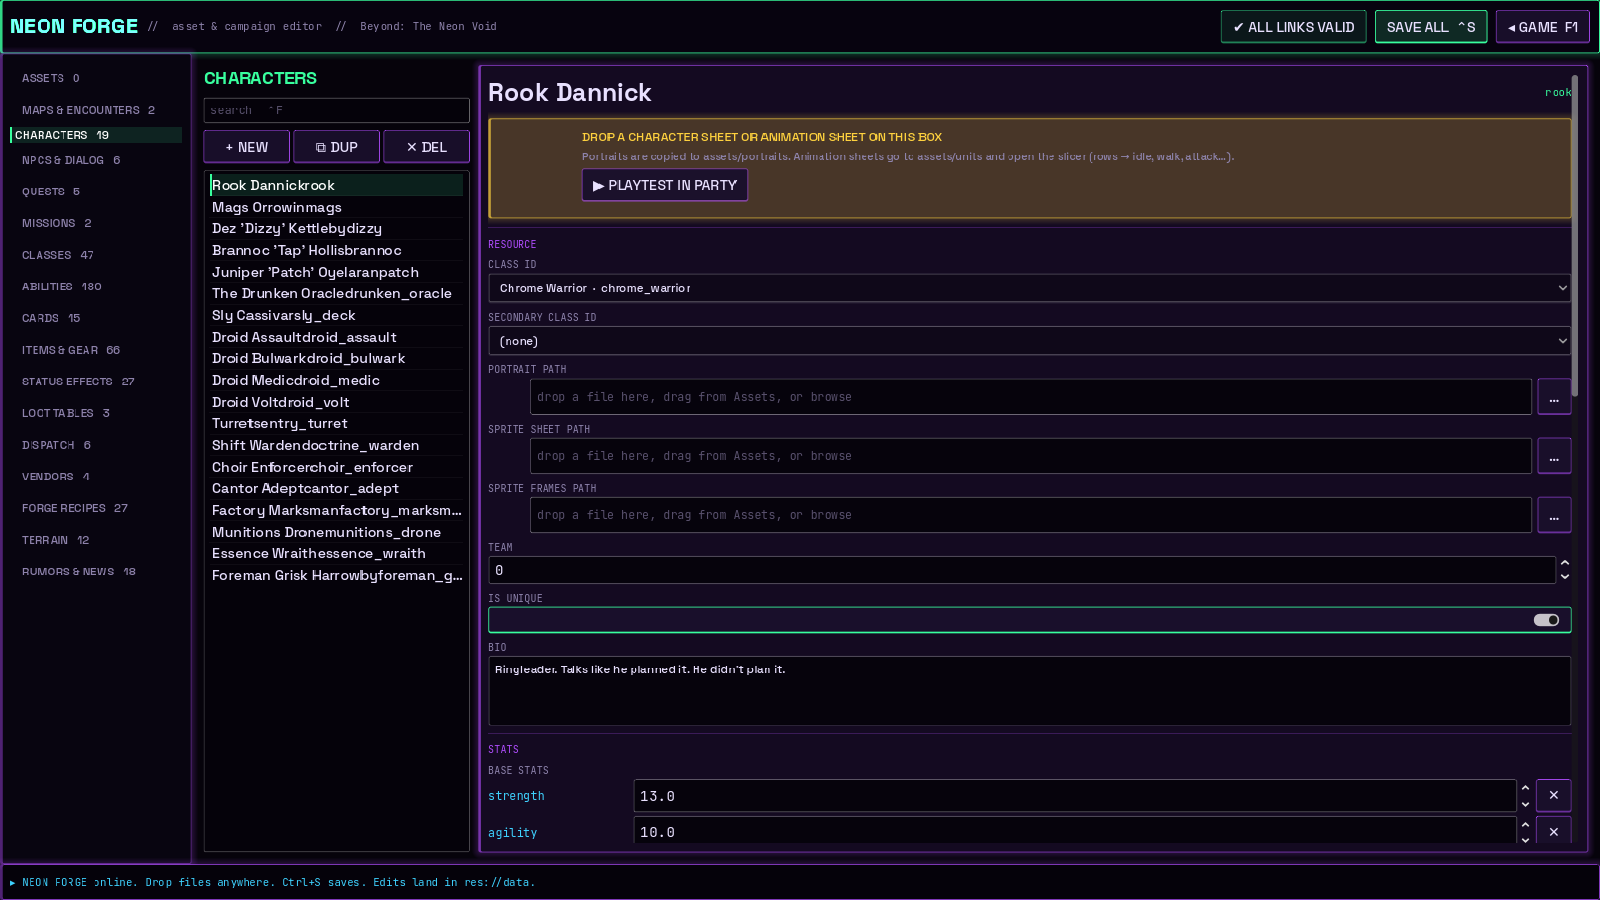
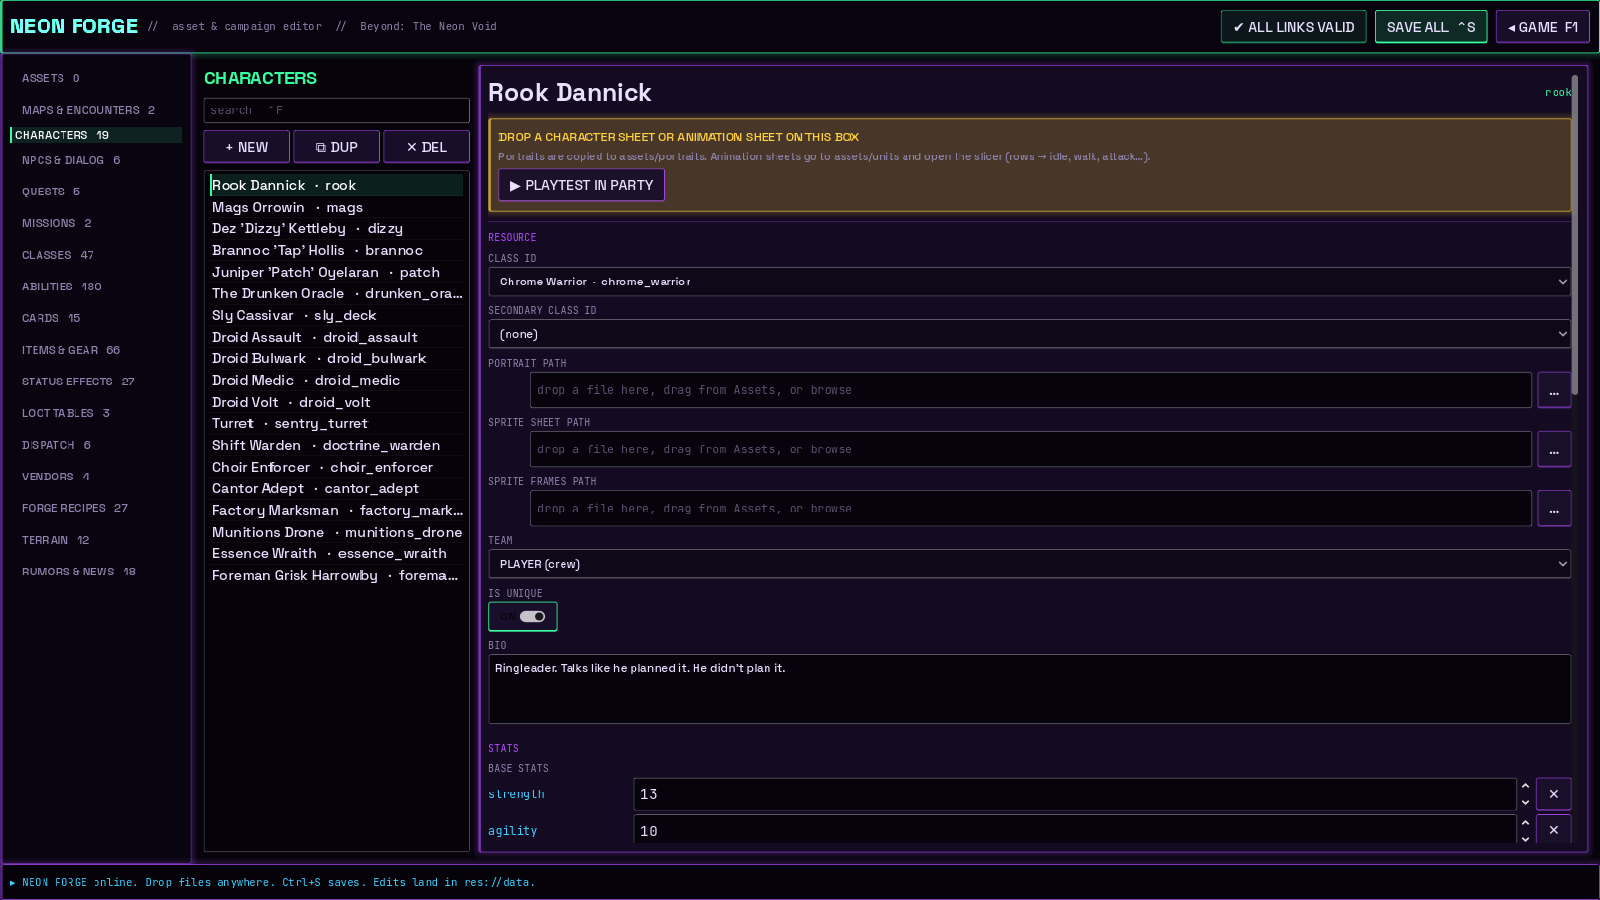
Docs, props in battle, editor polish
- README: start-here guide, controls, Neon Forge overview, layout, tests
- docs/design/BIG_IDEAS.md: ranked genre-pushing mechanics with status
- docs/MIGRATION.md: where each original script went and what was fixed
- Battle renders prop art; tiles/props load raw files before import
- Forge: cleaner list rows, integer stats, team dropdown, compact toggles

Claude-Session: https://claude.ai/code/session_01NwsUphtWbmXKeQUjjXApTa

diff --git a/docs/design/BIG_IDEAS.md b/docs/design/BIG_IDEAS.md
@@ -1,0 +1,141 @@
+# Big Ideas — pushing the genre
+
+The bar for this list: things tactics RPGs have rarely or never done, that grow out of *our* world (two truths, essence, a drunk found family, an unwinnable overseas war), and that our engine can actually support. Full research survey: `docs/research/GODOT_AND_TRPG_RESEARCH.md` (§B2 lists the genre gaps).
+
+Each idea shows its **status**:
+- **BUILT**: in the game now.
+- **HOOKED**: the engine has the hooks, and it needs content or one system.
+- **NEW**: needs a new system.
+
+---
+
+## Tier S: the ideas that define the game
+
+### 1. The Lying HUD (Doctrine Overlay) · NEW, cheap
+While a map's **Doctrine Relay** stands, the HUD reads state data:
+- hit % and damage previews skew up to ±25% in the Doctrine's favour
+- some enemies show up as "civilians"
+
+Ways to see through it:
+- Hackers can jack the relay.
+- A unit carrying the `Clear Eyes` chip sees true numbers.
+- Destroying the relay makes the HUD visibly *glitch back to the truth*.
+
+This is "everything has two truths" as a mechanic, not a plot point.
+
+- **Engine:** `DamageCalculator.forecast()` is already the single source the HUD reads. Adding an `InfoFilter` between them is a ~50-line change.
+- **Default:** telegraphs stay truthful. Lying is a per-map state you can *see* is active.
+- **Accessibility:** a toggle turns the lying off.
+
+### 2. Essence Ledger: humanity as combat currency · HOOKED
+- Every unit carries **Essence (0–100)**.
+- Big abilities can be **overcast** by spending Essence for +50%. Digimancer echoes are fuelled by it.
+- Essence only comes back through downtime at the Neon Gutter: drinking, talking, the jukebox.
+- At 0 a crew member is **Hollowed**. They're AI-controlled next battle, and there's a redemption quest to bring them back.
+
+The villain runs an essence factory, and you're running a small one inside yourself.
+
+- **Engine:** the `essence` damage type, the `essence_bleed` status and Essence Shard materials already exist. Adding a stat on `UnitStats` plus an `overcast` flag on `Ability` gets us there.
+
+### 3. Extraction Pods: a three-way choice mid-battle · HOOKED
+Factory maps hold pods with people inside. For each one you pick:
+- **Free** it: 2 turns, and you get a possible recruit.
+- **Drain** it: instant full heal and a power spike, at a huge Essence and karma cost.
+- **Ignore** it: the Digimancer boss gains a stack for every pod left full when the shift whistle blows.
+
+This is a moral choice made *with your turn*, not in a dialogue menu.
+
+- **Engine:** `InteractionTrigger` props, `EventBus`, win/lose conditions and the CT clock are all in place.
+
+### 4. The Watcher: the state takes a turn · NEW
+A Doctrine surveillance eye sits **in the CT turn-order strip** like a unit.
+- It sweeps a vision cone. Crimes committed in view raise **Heat**.
+- Heat thresholds rewrite the map's rules: curfew (−1 Move), reinforcements, and a Judge who enforces Laws (an FFTA2 nod).
+- You can also **break the law on purpose**, when a reinforcement wave would drop enemies onto your trap.
+
+- **Engine:** `TurnQueue` already schedules non-unit events (charged casts). The Watcher would be another of those.
+
+### 5. Last Call: the drunk meter · BUILT (seed) → HOOKED
+- The `buzzed` status already exists: attack and crit up, aim down. It comes from Liquid Courage and bar drinks.
+- **Next:** before a mission, each crew member orders a drink. Buzz unlocks **Stumble** actions: a random-direction shove that knocks enemies off catwalks.
+- Bonded pairs who are *both* buzzed unlock **Duo Techs**.
+- The hangover rides into the next dispatch.
+
+Comedy as a system, not just in dialogue.
+
+- **Engine:** `KineticAbility` "repulse" already does the shove-into-wall math.
+
+---
+
+## Tier A: great, and they fit the systems we have
+
+### 6. Rumour Mill Dispatch · BUILT (seed)
+- **Built:** dispatch already returns rumours from `data/rumors.json`.
+- **Next:** rumours become **two-truth intel cards**, such as "3 guards at the depot… or 9". Which one is true is rolled when you deploy, weighted by how sober and perceptive the dispatcher was.
+- Failed dispatches can create **Wanted** crew members (hunted in later maps) or **captured** ones (rescue maps).
+
+### 7. Weapons That Remember · HOOKED
+- Gear instances already carry level, XP and potential. Kills already feed weapon XP.
+- **Add:** a kill log by faction. At thresholds a weapon earns an **epithet**, like *Doctrine-Breaker* (+15% vs Doctrine).
+- Your rule "craft late = higher cap" also decides **epithet slots**:
+  - evolve at 10 → 1 slot
+  - at 20 → 2 slots
+  - at 30 → 3 slots
+  - at 50 → 4 slots
+- The old weapon's memory survives as a line of "ghost" flavour text.
+
+### 8. Cards on the Grid · HOOKED
+- **Built:** the Deck Stacker's cards (once per battle).
+- **Next:** some cards are **played face-down onto tiles** as traps, blessings or pure bluffs.
+- The enemy AI scores face-down tiles as risk (`AIBehavior.build_threat_map` is the hook), so bluffs genuinely herd enemies.
+- Playing a pair or a straight on consecutive turns triggers bonus "hands".
+
+### 9. Code-Layer Sight · NEW
+- Only Hackers and Digimancers see **code objects**: traps, hidden loot, ghost enemies.
+- They must spend an action to **Share**, which tags those objects for allies until the end of the turn.
+- Information becomes logistics, and it pays off your FF8/FF9 hidden-loot design: a hacker in the party *finds more*.
+
+### 10. Propaganda Duel · NEW
+- Doctrine conscripts have **Belief**. The crew's talk abilities, backed by evidence found in the hub, erode it. At 0 a conscript defects or runs.
+- Doctrine officers pump Belief back up with hymn broadcasts.
+- Whether you spare or kill converts feeds the ending.
+
+### 11. The News Reacts to You · HOOKED
+- Your actions set story flags, and the Doctrine news ticker **spins them**.
+- The canon scapegoat takes the blame for your explosion: "Greywrithe saboteur Kestral Omen-Six suspected. Again."
+- The spin escalates the more you do: "Omen-Six sighted in four districts simultaneously."
+- The overseas war never resolves. It just keeps interrupting your life.
+
+- **Engine:** the hub ticker plus `EventBus.broadcast_line`. It needs a `required_flag` field on rumours.
+
+---
+
+## Tier B: signature polish
+
+- **12. Two Faces.**
+  - Each crew member has a Declared Face (the barfly) and a Hidden Face (lore: Twin Face philosophy). The Hidden Face unlocks through their quest chain and grants a *second* secondary job.
+  - **Engine:** `CharacterData.secondary_class_id` and `JobHandler` already support one secondary job.
+- **13. Graffiti Tiles.**
+  - Rumour graffiti on map walls. Reading one (a free action, like searching a prop) grants a small buff or reveals a hidden route.
+  - It's the same `InteractionTrigger` used for hidden loot.
+- **14. Shift-Change Waves.**
+  - Factory maps run on the CT clock as a *work clock*. Every 50 ticks the whistle blows, fresh Wardens clock in, and tired ones clock out and leave the map.
+- **15. Hangover Morning.**
+  - The hub between chapters becomes a tiny turn-based *social* grid, reusing the battle engine.
+  - Seating chart, Toast, Roast, Buy a Round. Bond XP unlocks Duo Techs and "Bar Stories".
+- **16. Voice Barks from Your Recordings.**
+  - `voice_path` exists on dialog nodes. Extend it to battle barks: crits, kills, low HP, and drunk barks.
+  - The editor already previews audio, and you record the lines yourself.
+
+---
+
+## What we already shipped that the genre rarely does
+
+- **Deterministic damage, random hit** (Into the Breach clarity): the forecast is exactly what lands.
+- **Blue Magic you learn by getting hit**, from enemy droids, Choir hymns and essence wraiths.
+- **The Digimancer**: raise fallen *enemies* as fading echoes, using the villain's own art.
+- **The Echo Mime**: repeats the last thing a crew member did, for free.
+- **Chrono-Stitcher**: tie an enemy's turns to feed your ally's clock, and stitch deferred damage into their future.
+- **Cartographer**: rewrite the battlefield (walls, elevation, swapping tiles *and whoever stands on them*).
+- **Evolve-late-for-potential crafting**, which rewards patience with a permanent multiplier.
+- **Hidden loot with no markers**: you learn to click everything, exactly like FF8/FF9.

diff --git a/docs/MIGRATION.md b/docs/MIGRATION.md
@@ -1,0 +1,69 @@
+# Migration: original prototype → Godot 4.7
+
+The originals are archived untouched in `legacy/original_gd/`. A `.gdignore` there keeps Godot from parsing them.
+
+## Why this was a rebuild, not a straight port
+
+Porting 4.2 → 4.7 itself was minor. The originals had problems no version bump would fix:
+
+- **Pasted AI-chat text in the code.** `CombatManager.gd` contained `>>>`, `<<<END>>>`, "Wait, I noticed…" and `PS-END`.
+- **Files that were only notes.** `Ability.gd` and `ClassResource.gd` contained no code at all.
+- **Broken syntax.** Stray `)` lines, mis-indented lines, and duplicated functions (`resolve_attack` ×2, `_ready` ×2, `get_defense_power` ×2).
+- **Truncated files.** `DispatchManager.gd` and `ForgeManager.gd` stopped mid-function.
+- **Three incompatible grid classes** that disagreed on the isometric projection.
+- **Missing classes and autoloads** that code referenced: `TurnManager`, `UnitManager`, `Visuals`, `PlayerStats`, `VendorItemRow`, `IsometricGrid.singleton`.
+- **Three currencies:** credits, gold and soul coins.
+- **A "19 classes" claim** against a 45-entry list with duplicates.
+
+The rebuild keeps the **architecture from the README**: singleton orchestration, the ClassResource → ClassLibrary → UnitStats → Unit bridge, JobHandler-driven ability resources, and the Kinetic/Time/Terrain split. It also keeps the names, numbers and flavour, and makes all of it run.
+
+## File map
+
+| Original | Now | Notes |
+|---|---|---|
+| AIBehavior.gd | `src/combat/ai/ai_behavior.gd` | Utility AI with tactical positioning: threat map, cover, height, preferred range, hit-and-run. Satisfies the README directive. |
+| AggressiveBehavior.gd | `src/combat/ai/aggressive_behavior.gd` | Weights preset. |
+| CautiousBehavior.gd | `src/combat/ai/cautious_behavior.gd` | Keeps `preferred/min_distance` (as `ideal_distance`/`min_distance`). |
+| — | `tactical_behavior.gd`, `support_behavior.gd` | New archetypes. |
+| Ability.gd (notes only) | `src/data/ability.gd` | Data-driven: range, AoE shapes, charge time, statuses, specials. |
+| KineticAbilities.gd | `src/combat/abilities/kinetic_ability.gd` | Kinetic Charge's `1.5^tiles` overflowed, so it's now linear and capped at x2. Pull, repulse, and slam damage doubled by Unstable. |
+| TimeAbilities.gd | `src/combat/abilities/time_ability.gd` | Delay Thread, Stitch Turn, Rewind (now also a cheat-death save point), CT shift. |
+| TerrainAbilities.gd | `src/combat/abilities/terrain_ability.gd` | Fault Line, Isolate Elevation, Warp Coordinates, hazards, plus geomancy. |
+| ClassResource.gd (notes only) | `src/data/class_resource.gd` | Multiplicative stat scaling, growth, weapons, FFT unlock requirements. |
+| ClassLibrary.gd | `src/autoload/class_library.gd` + `data/classes.json` | 35 playable classes. See `docs/design/CLASSES.md`. |
+| JobData.gd | merged into ClassResource | Duplicate concept. |
+| JobHandler.gd | `src/combat/job_handler.gd` | Builds the command list (innate + learned + secondary job + cards). |
+| UnitStats.gd | `src/combat/unit_stats.gd` | Single-pass float math, rounded once and clamped. The overflow/rounding directive is covered by tests. |
+| Unit.gd | `src/combat/unit.gd` | A Node2D now (grid tweening needs no physics). Statuses, facing, CT, summons, revive. |
+| CombatManager.gd | `src/autoload/combat_manager.gd` + `src/combat/turn_queue.gd` + `damage_calculator.gd` | FFT CT clock, charged casts, win/lose conditions. Runs headless for tests. |
+| IsometricGrid.gd, BattleMap.gd, BattleMap_New.gd | `src/grid/isometric_grid.gd` (data) + `src/grid/battle_map.gd` (scene) + `tile_view.gd` | One projection, height-aware picking, Dijkstra movement with a jump rule, LOS, directional cover. |
+| BattleSpawnSystem.gd | inside `battle_map.gd` (`_spawn_units`) and `CombatManager.spawn_unit` | |
+| HighlightManager.gd | `src/grid/highlight_manager.gd` | Layered highlights drawn on tiles (correct occlusion). |
+| InputBridge.gd, InputManager.gd | inside `battle_map.gd` + `src/core/input_actions.gd` | Merged. Input actions are registered in code. |
+| CameraController.gd | `src/world/camera_controller.gd` | Pan, drag, zoom, follow, bounds. |
+| CameraManager.gd | `src/autoload/camera_manager.gd` | Shake via `EventBus.camera_shake`. |
+| DamageText.gd | `src/ui/damage_text.gd` | |
+| UnitHUD.gd | `src/ui/unit_hud.gd` (overhead) + `src/ui/battle_hud.gd` (panel) | Split into small overhead bars and a full panel. |
+| UIManager.gd | `src/autoload/ui_manager.gd` | Now a router to the active HUD. |
+| GameManager.gd | `src/autoload/game_manager.gd` | Roster, inventory (stacks + gear instances), soul coins, microchips, flags, Drunken Oracle unlock. |
+| CampaignManager.gd | `src/autoload/campaign_manager.gd` | Missions, rewards, world clock. |
+| ProgressionSystem.gd | `src/progression/progression_system.gd` | Polynomial XP curve (1.5^level overflowed), class levels, terminal learning. |
+| SaveGame.gd, SaveManager.gd | `src/autoload/save_manager.gd` | JSON slots, written atomically. No `.tres` from user://, because those can run scripts. |
+| SceneManager.gd, TransitionLayer.gd | `src/autoload/scene_manager.gd`, `transition_layer.gd` | |
+| DispatchManager.gd (truncated) | `src/autoload/dispatch_manager.gd` | Real-time timers, stat-weighted success, loot + rumours. |
+| ForgeManager.gd (truncated) | `src/autoload/forge_manager.gd` | Levels 1–50, evolve at 10+, potential rewards patience. |
+| VendorSystem.gd | `src/autoload/vendor_system.gd` + `data/vendors.json` | |
+| EquipmentManager.gd | `src/combat/equipment_manager.gd` | Specialty weapons: +15% stats, +25% class XP. |
+| ItemResource.gd, CardResource.gd, DeckResource.gd, MissionResource.gd, StatusEffect.gd, GameData.gd | `src/data/*` | CardResource now *is* an Ability. |
+| HubWorld.gd | `src/world/hub_menu.gd` (menu hub for now) | A walkable hub can replace it later. |
+| InteractionTrigger.gd | `src/world/interaction_trigger.gd` | Hidden loot with found/empty text, one-shot per save. |
+| MapEditor.gd, AssetInjectionEditor.gd | `src/tools/*` = **Neon Forge** | The full editor. |
+
+## Godot 4.2 → 4.7 specifics applied
+- `config/features` set to `4.7` with Forward+ and `hdr_2d` (neon glow).
+- `FileAccess.store_*` return values are checked (they return `bool` since 4.4).
+- The `@abstract` base class is used (4.5).
+- `.uid` files are committed next to scripts (4.4+).
+- No TileMap (deprecated in 4.3). Tiles are drawn per-cell with texture support; TileMapLayer can be adopted later if we want the TileSet editor.
+- Autoload scripts carry no `class_name`, which avoids name clashes.
+- `get_tree().scene_changed` is used for transitions.

diff --git a/README.md b/README.md
@@ -1,4 +1,93 @@
-# Beyond-The-Neon-Void
+# Beyond: The Neon Void
+
+A cyberpunk turn-based tactics RPG: a spiritual successor to *Final Fantasy Tactics*, set in the world of **The Black Doctrine**. Built with **Godot 4.7.2** and GDScript.
+
+![Battle](docs/screenshots/shot_battle.png)
+
+## Start here
+
+1. Install **Godot 4.7.x** (standard build, not .NET).
+2. Clone this repo, open Godot, then **Import** and pick `project.godot`. The first open imports assets, which takes a minute.
+3. Press **F5**. From the title screen you can pick:
+   - **New Shift**: the campaign loop (bar hub → job board → battle → rewards).
+   - **Quick Battle**: jump straight into *The Brew Plan*.
+   - **Neon Forge (F1)**: the in-game asset & campaign editor.
+
+### Battle controls
+| Input | Action |
+|---|---|
+| Left-click | Move / target / search scenery next to your unit |
+| Right-click / Esc | Cancel |
+| Command bar | Move, abilities (costs shown), End Turn |
+| T / M / Tab | End turn / move mode / threat map |
+| WASD, middle-drag, wheel | Camera |
+| F5 / F9 | Quick save / quick load |
+
+### Neon Forge (the editor)
+- Edits land in `data/*.json` and `assets/`, so every change is a git diff.
+- Drop files **anywhere on the window** to *copy* them into `assets/`. Your originals are never moved.
+- **Characters:**
+  - Drop a portrait or an animation sheet on the character's drop zone.
+  - The slicer turns sheet rows into idle/walk/attack/hurt/death animations.
+  - **▶ Playtest** puts that character straight into a fight.
+- **Map Painter:**
+  - Paint terrain (including your own registered tile art) and sculpt height.
+  - Set cover, spawns and enemy encounters.
+  - Place props with hidden loot and popup text (FF8/FF9-style).
+- **Every other content type** is edited with forms: classes, abilities, cards, items, statuses, NPCs & dialog (with voice lines), quests, missions and win conditions, loot, dispatch, vendors, recipes, terrain and rumours.
+- **Shortcuts:** Ctrl+S saves · Ctrl+N new · Ctrl+D duplicate · Ctrl+F search · Ctrl+Enter playtest.
+
+![Neon Forge](docs/screenshots/shot_forge_maps.png)
+
+## Where things are
+```
+project.godot            Godot 4.7 project (Forward+, HDR 2D glow)
+src/autoload/            Singletons: EventBus, ContentDB, ClassLibrary, GameManager,
+                         CombatManager, CampaignManager, QuestManager, SaveManager, ...
+src/combat/              Unit, UnitStats, TurnQueue (FFT CT), DamageCalculator,
+                         JobHandler, EquipmentManager, abilities/, ai/
+src/grid/                IsometricGrid (data), BattleMap (scene), TileView, highlights
+src/data/                Content Resource classes (JSON <-> Resource)
+src/ui/  src/world/      HUDs, menus, hub, dialogue
+src/tools/               Neon Forge editor
+data/                    ALL game content as JSON (edited by Neon Forge)
+assets/                  tiles/ structures/ props/ units/ portraits/ ui/ music/ sfx/ voice/ vfx/ fonts/
+tests/                   Headless test suite + screenshot renderer
+docs/                    Lore digest, research, design (classes, big ideas), migration notes
+legacy/original_gd/      The original prototype scripts (ignored by Godot)
+```
+
+## Docs
+- `docs/design/CLASSES.md`: all 35 classes, unlock tree and abilities.
+- `docs/design/BIG_IDEAS.md`: genre-pushing mechanics, ranked, with build status.
+- `docs/lore/LORE_DIGEST.md`: world reference, canon usage tags, contradictions to resolve.
+- `docs/research/GODOT_AND_TRPG_RESEARCH.md`: Godot 4.2→4.7 notes and the tactics-genre survey.
+- `docs/MIGRATION.md`: where every original script went, and what was fixed.
+
+## Tests
+```
+godot --headless --path . --import
+godot --headless --path . -s res://tests/compile_all.gd    # every script compiles
+godot --headless --path . -s res://tests/run_tests.gd      # 270+ checks + 36 AI-vs-AI battles
+```
+
+## Adding your assets
+Put files in the matching `assets/` folder, or drop them onto the Neon Forge window:
+
+| Asset | Folder |
+|---|---|
+| Black Doctrine structures | `assets/structures/` |
+| Ground tiles (`god_tiles`) | `assets/tiles/` (then **Register as terrain** in Forge → Assets) |
+| UI | `assets/ui/` |
+| HUD (`doctrine/green-purple`) | `assets/ui/hud/` |
+| Music | `assets/music/` |
+| Your SFX | `assets/sfx/` |
+
+Music is referenced by file name (without extension) in a mission's `music_id`, for example `battle_supply_works.ogg`.
+
+---
+
+## Original brief
 A turn based tactics RPG akin to FF Tactics in a cyberpunk world. Set in the same world of Black Doctrine, a place where everything has two truths... and both are likely wrong. I truly want it to feel like a spirital successor to 
 final fantasy tactics but with its own charm and moments to stand out as something more. this is a very dark and mature toned game but at the same time the awkward humor is the linchpin to keep it from a completely 
 depressing venture. a group of friends of whom only found freindship in a gluttonous amount of brew consumption and mutal disdain for the strict Iron fisted rule of the totalitarian ruling power known as the black doctrine. a Gov't power that has little pity towards its people and so life is truly grueling existence for some. the lucky ones die at an early enough age that they arent tainted and turned fowl from the mental slavery that comes from 15 hour work days and only having 3 days off a month. the montley cast of fowl mouthed wishful thinkers and iron belly drinkers devise a plan to break into a black doctrine munitions supply factory and perhaps accidentally cause an explosion thats perhaps just big enough that if successful not only would it leave a little scratch on the doctrines warmachine and its pride but also give them an extra day or two to drink as the chaos and dust clears. think the show "cheers" mixed with cyberpunk and a hint of fight club. but what was supposed to be a self made 2 day hopeful vaction takes a huge turn when the would be drunken heroes stumble or better said, fall into what can only be decribed as a human essence factory. where the essence of humans are extracted in a gruesome manner to feed and empower a little known at the time, black doctrine digimancer. havng existed in a world curated by the doctrine he has convinced himself and those around him that he could truly awaken the digital queen and rule with a digital fist by her side and herolded as the leader of the new age of humans. an age where a culling of the population would become common place and eventually would allow this digimancer infinite power. 
